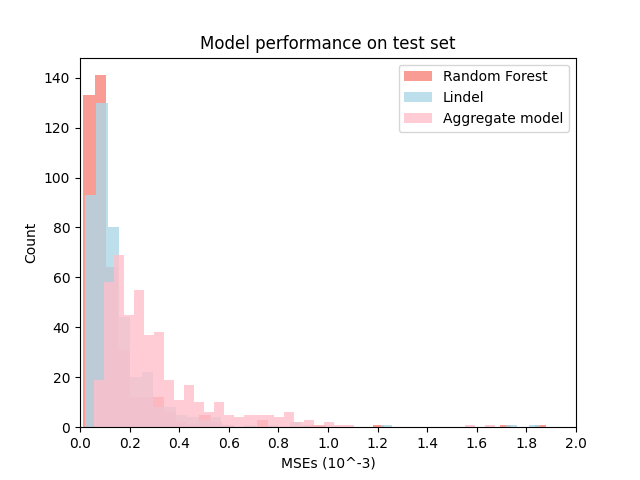
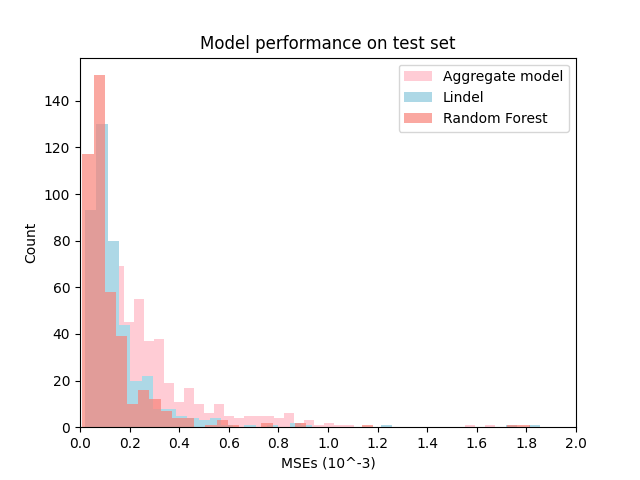
progress

diff --git a/Lindel-data_analysis/scripts/RF_training/plot_predictions_combined.py b/Lindel-data_analysis/scripts/RF_training/plot_predictions_combined.py
@@ -16,6 +16,26 @@ import matplotlib.pyplot as plt
 import numpy as np
 import scipy.sparse as sparse
 
+
+def gen_prediction(seq,prereq, model_del, model_ins, model_indel):
+    '''generate the prediction for all classes, redundant classes will be combined'''
+    pam = {'AGG':0,'TGG':0,'CGG':0,'GGG':0}
+    guide = seq[13:33]
+    if seq[33:36] not in pam:
+        return (None, None)
+    
+    label,rev_index,features,frame_shift = prereq
+    indels = gen_indel(seq,30) 
+    input_indel = onehotencoder(guide).reshape(1, -1)
+    input_ins   = onehotencoder(guide[-6:]).reshape(1, -1)
+    input_del   = np.concatenate((create_feature_array(features,indels),input_indel),axis=None).reshape(1, -1)
+    cmax = gen_cmatrix(indels,label) # combine redundant classes
+    dratio, insratio = model_indel.predict(input_indel)[0]
+    ds  = model_del.predict(input_del)
+    ins = model_ins.predict(input_ins)
+    y_hat = np.concatenate((ds*dratio,ins*insratio),axis=None) * cmax
+    return (y_hat,np.dot(y_hat,frame_shift))
+
 def softmax(weights):
     return (np.exp(weights)/sum(np.exp(weights)))
 
@@ -140,7 +160,7 @@ def onehotencoder(seq):
         encode[head_idx[seq[k:k+2]+str(k)]] =1.
     return encode
 
-def gen_prediction_lindel(seq,wb,prereq):
+def gen_prediction_combined(seq,wb,prereq, indel_ratio_model, ins_model, del_model):
     # '''generate the prediction for all classes, redundant classes will be combined'''
     if len(seq)!= 60:
         return ('Error: The input sequence is not 60bp long.')
@@ -151,20 +171,27 @@ def gen_prediction_lindel(seq,wb,prereq):
     w1,b1,w2,b2,w3,b3 = wb
     label,rev_index,features,frame_shift = prereq
     indels = gen_indel(seq,30) 
-    input_indel = onehotencoder(guide)
-    input_ins   = onehotencoder(guide[-6:])
+    input_indel = onehotencoder(guide).reshape(1, -1)
+    input_ins   = onehotencoder(guide[-6:]).reshape(1,-1)
     input_del   = np.concatenate((create_feature_array(features,indels),input_indel),axis=None)
     cmax = gen_cmatrix(indels,label) # combine redundant classes
-    dratio, insratio = softmax(np.dot(input_indel,w1)+b1)
-    ds  = softmax(np.dot(input_del,w2)+b2)
-    ins = softmax(np.dot(input_ins,w3)+b3)
+    dratio, insratio = indel_ratio_model.predict(input_indel)[0]
+    ds  =  softmax(np.dot(input_del,w2)+b2)
+    ins = ins_model.predict(input_ins) #softmax(np.dot(input_ins,w3)+b3)
     y_hat = np.concatenate((ds*dratio,ins*insratio),axis=None) * cmax
-    return (y_hat,np.dot(y_hat,frame_shift))
+    return (y_hat,  np.dot(y_hat,frame_shift))
 
 def main():
     parser = argparse.ArgumentParser(description="plot the predicted frameshifts vs. the actual frameshifts and mse histogram")
     args = parser.parse_args()
 
+    # load lindel models
+    model_del_lindel = keras.models.load_model("data/L1_del.h5")
+    model_ins_lindel = keras.models.load_model("data/L1_ins.h5")
+    model_indels_lindel = keras.models.load_model("data/L2_indel.h5")
+    weights_lindel = [model_indels_lindel.get_weights()[0], model_indels_lindel.get_weights()[1] , model_del_lindel.get_weights()[0], model_del_lindel.get_weights()[1],  model_ins_lindel.get_weights()[0], model_ins_lindel.get_weights()[1]]
+
+    
     # load labels
     label, rev_index, features = pkl.load(open("data/feature_index_all.pkl", "rb"))
     feature_size = len(features) + 384
@@ -175,61 +202,61 @@ def main():
     model_preq = pkl.load(open("data/model_prereq.pkl", 'rb'))
     label,rev_index,features,frame_shift = model_preq
     # load pkle file with the predicted frameshifts and predictions for Random Forest
-    predicted_frameshift = pkl.load(open('data/predicted_frameshift_0.9_training.pkl','rb'))
-    predictions = pkl.load(open('data/predictions_0.9_training.pkl','rb'))
+    predictions = pkl.load(open('data/predictions.pkl','rb'))
     # normalize predictions
     for i, p in enumerate(predictions):
         try:
             predictions[i] = p / np.sum(p)
         except:
             continue
+    
+    # load models
+    model_del = pkl.load(open("data/RF_deletion.pkl", "rb"))
+    model_ins =  pkl.load(open("data/RF_insertion.pkl", "rb"))
+    model_indels = pkl.load(open("data/RF_indel.pkl", "rb"))
+
+
+    predictions_combined= []
+    predicted_frameshift_combined = []
+    for sample in test_data:
+        # get the sequence
+        sequence = sample[0]
+        res = gen_prediction_combined(sequence, weights_lindel, model_preq, model_indels, model_ins, model_del)
+        pred_lindel = res[0]
+        predicted_frameshift_combined.append(res[1])
+        predictions_combined.append(pred_lindel)
 
     # get the actual frameshifts
     actual_frameshift = np.dot(y,frame_shift).tolist()
 
     # plot the actual vs. predicted frameshifts    
-    for i, pfs in enumerate(predicted_frameshift): 
+    for i, pfs in enumerate(predicted_frameshift_combined): 
         if type(pfs) != np.float64:
             # remove the predicted frameshifts that are not floats
-            predicted_frameshift.pop(i)
+            predicted_frameshift_combined.pop(i)
             actual_frameshift.pop(i)
 
-    mse = np.mean((np.array(actual_frameshift) - np.array(predicted_frameshift))**2)
+    mse = np.mean((np.array(actual_frameshift) - np.array(predicted_frameshift_combined))**2)
     mse = round(mse, 3)
 
     # calculate pearson correlation
-    pearson = stats.pearsonr(actual_frameshift, predicted_frameshift)
+    pearson = stats.pearsonr(actual_frameshift, predicted_frameshift_combined)
     # keep 3 decimal places
     pearson = round(pearson[0], 3)
     # include in the plot the mse and pearson correlation
     plt.title("MSE: {}, Pearson correlation: {}".format(mse, pearson))
     plt.plot([0, 1], [0, 1], transform=plt.gca().transAxes, color = "red")
-    plt.scatter(actual_frameshift, predicted_frameshift)
+    plt.scatter(actual_frameshift, predicted_frameshift_combined)
     plt.xlabel("Measured frameshift ratio")
     plt.ylabel("Predicted frameshift ratio")
     plt.xlim(0, 1)
     plt.ylim(0, 1)
-    plt.savefig("Lindel-data_analysis/scripts/RF_training/frameshifts_0.9_training.png")
+    plt.savefig("Lindel-data_analysis/scripts/RF_training/frameshifts_combined.png")
     plt.close()
-
-
-    # load lindel models
-    model_del_lindel = keras.models.load_model("data/L1_del.h5")
-    model_ins_lindel = keras.models.load_model("data/L1_ins.h5")
-    model_indels_lindel = keras.models.load_model("data/L2_indel.h5")
-    weights_lindel = [model_indels_lindel.get_weights()[0], model_indels_lindel.get_weights()[1] , model_del_lindel.get_weights()[0], model_del_lindel.get_weights()[1],  model_ins_lindel.get_weights()[0], model_ins_lindel.get_weights()[1]]
-
-    predictions_lindel = []
-    for sample in test_data:
-        # get the sequence
-        sequence = sample[0]
-        pred_lindel = gen_prediction_lindel(sequence, weights_lindel, model_preq)[0]
-        predictions_lindel.append(pred_lindel)
-    
 
     mses_lindel = []
     # calculate MSEs
-    for i, prediction in enumerate(predictions_lindel):
+    for i, prediction in enumerate(predictions_combined):
         if type(prediction) == str  or type(prediction) != np.ndarray:
             continue
         mses_lindel.append(np.mean((prediction - y[i])**2))
@@ -271,8 +298,9 @@ def main():
 
     # plot histogram of MSEs
     sns.histplot(dummy_mses, bins=40, color='pink', label='Aggregate model', alpha=0.8, edgecolor=None)
-    sns.histplot(mses_lindel, bins=40, color='#ADD8E6', label='Lindel', alpha=1.0, edgecolor=None)
-    sns.histplot(mses, bins=40, color='#F88379', label='Random Forest', alpha=0.7, edgecolor=None)
+    sns.histplot(mses, bins=40, color='#F88379', label='Random Forest', alpha=1.0, edgecolor=None)
+    sns.histplot(mses_lindel, bins=40, color='#ADD8E6', label='RF & LR', alpha=0.7, edgecolor=None)
+
 
     plt.xticks(np.arange(0, 3, 0.2))
     # set to log scale
@@ -280,7 +308,7 @@ def main():
     plt.xlabel("MSEs (10^-3)")
     plt.xlim(0.0, 2.0)
     plt.title('Model performance on test set')
-    plt.savefig("Lindel-data_analysis/scripts/RF_training/hist_0.9_training.png")
+    plt.savefig("Lindel-data_analysis/scripts/RF_training/hist_combined.png")
 
     return
 

diff --git a/Lindel-data_analysis/scripts/RF_training/gen_predictions.py b/Lindel-data_analysis/scripts/RF_training/gen_predictions.py
@@ -8,13 +8,7 @@ import matplotlib.pyplot as plt
 import numpy as np
 import seaborn as sns
 from tqdm import tqdm
-import datetime as dt
-import pickle as pkl
-from tensorflow import keras 
-import numpy as np
-import matplotlib.pyplot as plt
-import numpy as np
-import scipy.sparse as sparse
+
 
 
 
@@ -166,9 +160,9 @@ def main():
     args = parser.parse_args()
 
     # load models
-    model_del = pkl.load(open("data/RF_deletion.pkl", "rb"))
-    model_ins =  pkl.load(open("data/RF_insertion.pkl", "rb"))
-    model_indels = pkl.load(open("data/RF_indel.pkl", "rb"))
+    model_del = pkl.load(open("data/RF_deletion_0.9_training.pkl", "rb"))
+    model_ins =  pkl.load(open("data/RF_insertion_0.9_training.pkl", "rb"))
+    model_indels = pkl.load(open("data/RF_indel_0.9_training.pkl", "rb"))
    
     # load labels
     label, rev_index, features = pkl.load(open("data/feature_index_all.pkl", "rb"))
@@ -193,8 +187,8 @@ def main():
         predicted_frameshift.append(p_frame_shift)
     
     # save the predictions  and predicted frameshifts
-    pkl.dump(predictions, open("data/predictions.pkl", "wb"))
-    pkl.dump(predicted_frameshift, open("data/predicted_frameshift.pkl", "wb"))
+    pkl.dump(predictions, open("data/predictions_0.9_training.pkl", "wb"))
+    pkl.dump(predicted_frameshift, open("data/predicted_frameshift_0.9_training.pkl", "wb"))
 
     return
 

diff --git a/Lindel-data_analysis/scripts/RF_training/RF_deletion.py b/Lindel-data_analysis/scripts/RF_training/RF_deletion.py
@@ -36,12 +36,13 @@ def main():
     Seq_train = Seqs
     x_train = []
     y_train = []
+    # train_size = int(len(data) * 0.9)
     train_size = len(data)
 
     # Create training set with
     for i in range(train_size):
         # Check that labels for each sample sum up to at most 1
-        if 1> sum(y[i,:536])> 0 :
+        if 1> sum(y[i,:536])> 0:
             # Normalize (probability distribution)
             y_train.append(y[i,:536]/sum(y[i,:536]))
             x_train.append(X[i])

diff --git a/Lindel-data_analysis/scripts/RF_training/RF_insertion.py b/Lindel-data_analysis/scripts/RF_training/RF_insertion.py
@@ -60,8 +60,11 @@ y_train = []
 
 Seq_train = Seqs
 train_size = int(len(Seq_train))
+
+# train_size = int(len(Seq_train) * 0.9)
+
 for i in range(train_size):
-    if 1> sum(y[i,-21:])> 0 :# 5 is a random number i picked if i use pred_size here it will be -21:0 it will just generate empty array
+    if 1> sum(y[i,-21:])> 0 :
         y_train.append(y[i,-21:]/sum(y[i,-21:]))
         x_train.append(onehotencoder(Seq_train[i][-6:]))
 

diff --git a/Lindel-data_analysis/scripts/RF_training/RF_indel.py b/Lindel-data_analysis/scripts/RF_training/RF_indel.py
@@ -50,6 +50,7 @@ data = data[:,1:].astype('float32')
 X = data[:,:feature_size]
 y = data[:, feature_size:]
 
+# train_size = int(len(data) * 0.9)
 train_size = len(data)
 
 Seq_train = Seqs
